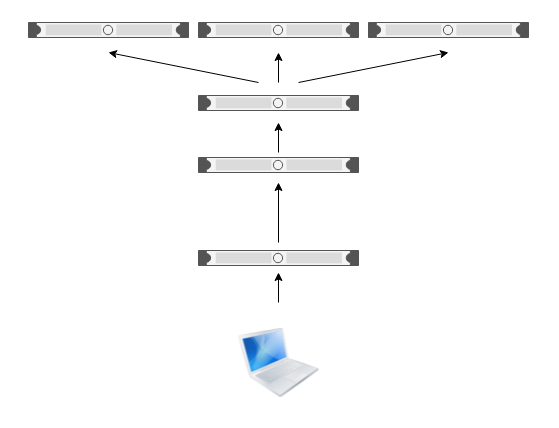
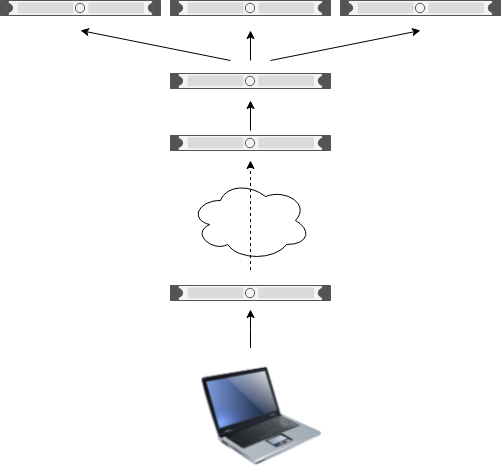
Rework Uniform Interface slides to be more visual.

diff --git a/presentation/index.html b/presentation/index.html
@@ -171,7 +171,7 @@
         </section>
 
         <section>
-          <h2>Constraints</h2>
+          <h2>Six Constraints</h2>
           <blockquote cite="http://www.brainyquote.com/quotes/quotes/w/waltwhitma136364.html">
             &ldquo;The shallow consider liberty a release from all law, from every constraint. The wise man sees in it, on the contrary, the potent Law of Laws.&rdquo;
           </blockquote>
@@ -184,8 +184,8 @@
           </aside>
         </section>
 
-        <section data-background="#efefef" data-transition="fade" class="has-light-background">
-          <h2>Client-Server</h2>
+        <section data-background="#fefefe" data-transition="fade" class="has-light-background">
+          <h3>1. Client-Server</h3>
           <div>
             <img class="overlaid" src="img/constraint-client-server-1.png" alt="" width="592" height="314">
           </div>
@@ -196,28 +196,16 @@
           </aside>
         </section>
 
-        <section data-background="#efefef" data-transition="fade" class="has-light-background">
-          <h2>Client-Server</h2>
-          <div>
-            <img class="overlaid" src="img/constraint-client-server-2.png" alt="" width="592" height="314">
-          </div>
-          <aside class="notes">
-            <ul>
-              <li></li>
-            </ul>
-          </aside>
-        </section>
-
-        <section data-background="#efefef" >
-          <h3>Stateless</h3>
+        <section data-background="#fefefe" >
+          <h3>2. Stateless</h3>
           <div>
             <img class="overlaid" src="img/constraint-stateless.png" alt="">
           </div>
           <aside class="notes">
             <ul>
               <li>The stateless constraint doesn't mean that your application doesn't have any state.</li>
-              <li>What it actually means is that your network connection should not carry any implicit state.</li>
-              <li>In other words, every request and response pair stand on their own.</li>
+              <li>What it actually means is that every request carries with it everything the server needs to know in order to service the request.</li>
+              <li>Each request is independent of any other requests that proceeded it.</li>
               <li>This is important because at any time, the network may say "meh" and drop your connection.</li>
               <li>This is especially true across the internet and over mobile networks.</li>
               <li>The way REST works around this is by requiring clients to keep track of their own state in between every transaction.</li>
@@ -226,8 +214,8 @@
           </aside>
         </section>
 
-        <section data-background="#efefef" >
-          <h3>Cache</h3>
+        <section data-background="#fefefe" >
+          <h3>3. Cache</h3>
           <div>
             <img class="overlaid" src="img/constraint-cache.png" alt="">
           </div>
@@ -240,8 +228,8 @@
           </aside>
         </section>
 
-        <section data-background="#efefef" >
-          <h3>Uniform Interface</h3>
+        <section data-background="#fefefe" >
+          <h3>4. Uniform Interface</h3>
 
           <aside class="notes">
             <ul>
@@ -254,29 +242,29 @@
           </aside>
         </section>
 
-        <section data-background="#efefef" data-transition="fade" >
+        <section data-background="#fefefe" data-transition="fade" >
           <div>
             <img class="overlaid"  src="img/constraint-ui-1.jpg" alt="" height="426">
           </div>
           <p class="smaller-text">Image credit: <a href="https://www.flickr.com/photos/nayukim/4274606367/">Nayu Kim</a></p>
         </section>
 
-        <section data-background="#efefef" data-transition="fade">
+        <section data-background="#fefefe" data-transition="fade">
           <div>
             <img class="overlaid"  src="img/constraint-ui-2.jpg" alt="" height="426">
           </div>
           <p class="smaller-text">Image credit: <a href="http://pixabay.com/en/piano-playing-pianist-hands-piano-375363/">dankreider</a></p>
         </section>
 
-        <section data-background="#efefef" data-transition="fade">
+        <section data-background="#fefefe" data-transition="fade">
           <div>
             <img class="overlaid"  src="img/constraint-ui-3.jpg" alt="" height="426">
           </div>
           <p class="smaller-text">Image credit: <a href="https://www.flickr.com/photos/23416307@N04/9168721286/">Ωméga</a></p>
         </section>
 
-        <section data-background="#efefef" >
-          <h3>Layering</h3>
+        <section data-background="#fefefe" >
+          <h3>5. Layered System</h3>
           <div>
             <img class="overlaid"  src="img/constraint-layering.png" alt="">
           </div>
@@ -290,8 +278,8 @@
           </aside>
         </section>
 
-        <section data-background="#efefef" >
-          <h3>Code-on-Demand</h3>
+        <section data-background="#fefefe" >
+          <h3>6. Code-on-Demand</h3>
           <div>
             <img class="overlaid"  src="img/code-on-demand.png" alt="">
           </div>
@@ -306,31 +294,89 @@
         </section>
 
         <section>
-          <h2>Elements of the Uniform Interface</h2>
+          <h2>Elements</h2>
+          <h3>of the</h3>
+          <h2>Uniform Interface</h2>
         </section>
 
-        <section>
-<!--
-          <p>[draw a big-picture diagram here, then point out the elements and talk about them briefly]</p>
- -->
+        <section data-background="#fefefe" data-transition="fade" >
           <h3>Components</h3>
-          <h3 class="fragment">Connectors</h3>
-          <h3 class="fragment">Resources</h3>
-          <h3 class="fragment">Representations</h3>
-          <h3 class="fragment">Control Data</h3>
-          <h3 class="fragment">Hypermedia</h3>
-
+          <div>
+            <img class="overlaid"  src="img/ui-components.png" alt="">
+          </div>
           <aside class="notes">
             <ul>
-              <li>REST components categorize individual nodes into various roles, with each role conveying a specific set of expectations. Examples of components include origin servers, user agents, gateways, and proxies.</li>
-              <li>REST connectors define the types of actions a node performs, such as caching or acting as a client or server. A given component may implement one or more connectors.</li>
-              <li>Resources are client-facing models that map in some way to backend data entities. The mapping can be n-to-n and involve any number of transformations and amalgamations. Each resource is identified by a unique, opaque identifier, typically a URL. REST does not dictate a particular URL schema, although it can be helpful to adopt a human-friendly format, as we'll see later on. It's important to note here that the server has complete ownership of this identifier, which means that the client never constructs it, but simply "copies and pastes" identifiers it receives from previous requests to the server. This makes it easier to evolve your API without breaking clients.</li>
-              <li>Representations are snapshots of a resource at a point in time. A single resource can have multiple representations, such as JSON, PNG, or HTML. These representations are formalized as Internet media types. The client and server perform content negotiation to determine the desired representation.</li>
-              <li>Control data is passed along with requests and responses to specify general semantics and to modify the default behavior of connectors. In HTTP, examples of control data include the HTTP method (e.g., GET and POST) and conditional headers, such as If-None-Match.</li>
-              <li>Hypermedia is one of the most often ignored aspects of REST. This is ironic, because hypermedia is probably the most important difference between REST and other architectural styles, such as RPC. Rather than relying on brittle endpoint specifications, REST uses hypermedia to identify resources and provide a living web of links that clients traverse in order to change application state. The server may provide different links to the client according to the current state of the system. In this way, REST-based systems can be very flexible, allowing different components of the system to evolve independently.</li>
+              <li>REST components (what I am) categorize individual nodes into various roles, with each role conveying a specific set of expectations. Examples of components include origin servers, user agents, gateways, and proxies.</li>
             </ul>
           </aside>
         </section>
+
+        <section data-background="#fefefe" data-transition="fade" >
+          <h3>Connectors</h3>
+          <div>
+            <img class="overlaid"  src="img/ui-connectors.png" alt="">
+          </div>
+          <aside class="notes">
+            <ul>
+              <li>REST connectors (what I do) define the types of actions a node performs, such as caching or acting as a client or server. A given component may implement one or more connectors.</li>
+            </ul>
+          </aside>
+        </section>
+
+        <section data-background="#fefefe" data-transition="fade" >
+          <h3>Resources &amp; Representations</h3>
+          <div>
+            <img class="overlaid"  src="img/ui-resources-and-representations.png" alt="">
+          </div>
+          <aside class="notes">
+            <ul>
+              <li>A resource is a concept.</li>
+              <li>For example, here we have the concept of a calendar. This is our resource.</li>
+              <li>A resource maps to one or more backend data entities.</li>
+              <li>And on the frontend, a resource maps to one or more representations.</li>
+              <li>In order to fulfill a request, the server translates between representations, resources, and entities.</li>
+            </ul>
+          </aside>
+        </section>
+
+        <section data-background="#fefefe" data-transition="fade" >
+          <h3>Control Data</h3>
+          <p>Metadata about each message</p>
+          <p class="fragment">Purpose and meaning (HTTP's GET/POST, Content-Type)</p>
+          <p class="fragment">Override default behavior (HTTP's If-Modified-Since)</p>
+          <aside class="notes">
+            <ul>
+              <li>Next we have Control Data.</li>
+              <li>Control Data provides metadata about each message.</li>
+              <li>This metadata provides purpose and meaning, as in HTTP's...</li>
+              <li>Control Data also let's you override the default behavior of a connector. For example...to short-circuit a GET request.</li>
+              <li>[304 Not Modified]</li>
+            </ul>
+          </aside>
+        </section>
+
+        <section data-background="#fefefe" data-transition="fade" >
+          <h3>Hypermedia</h3>
+          <div>
+            <img class="overlaid"  src="http://www.jayway.com/wp-content/uploads/2012/10/hypermedia-application.png" alt="">
+          </div>
+          <p class="smaller-text">Image credit: <a href="http://www.jayway.com/wp-content/uploads/2012/10/hypermedia-application.png">Jan Kronquist</a></p>
+          <aside class="notes">
+            <ul>
+              <li>The final element of the uniform interface...is hypermedia.</li>
+              <li>Hypermedia is arguably one of the most distinguishing characteristics of RESTful APIs.</li>
+              <li>The idea here is that the server guides the client through a living web of links</li>
+              <li>Links represent the relationship between resources, and define the possible state transitions in the system.</li>
+              <li>The client starts at a single entry point into the app and requests a representation of that resource from the server.</li>
+              <li>The server then returns some information about that resource, including a list of links to other resources that the client may follow.</li>
+              <li>The client uses this information to provide a set of choices to the user.</li>
+              <li>The user then makes a choice, whereupon the client invokes the corresponding link in some way.</li>
+              <li>This process repeats until the user's goal is satisfied.</li>
+              <li>In this way, the uniform interface provides a very flexible interaction model that makes it much easier to evolve the server over time without breaking your clients willy-nilly.</li>
+            </ul>
+          </aside>
+        </section>
+
 
         <section id="design">
           <h1>Design the API</h1>
